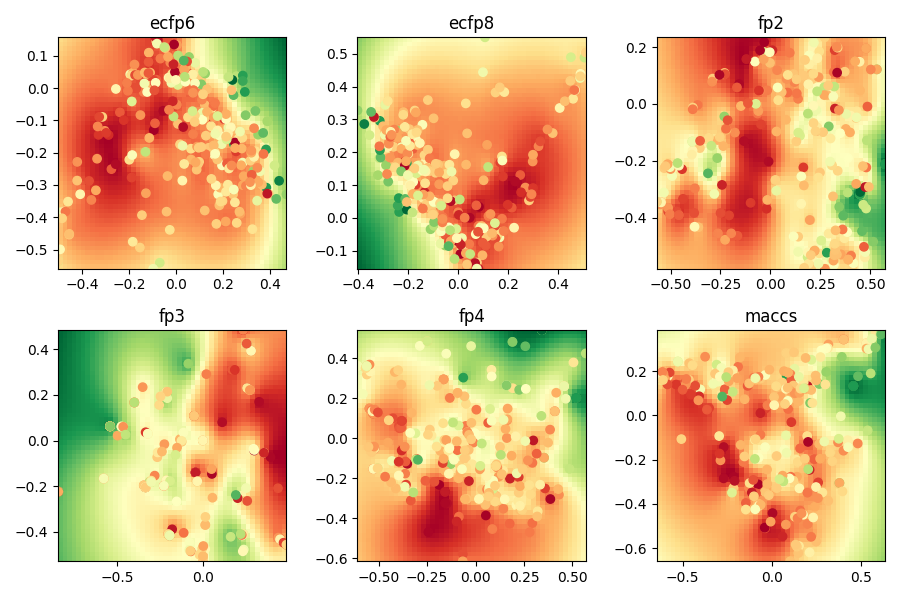
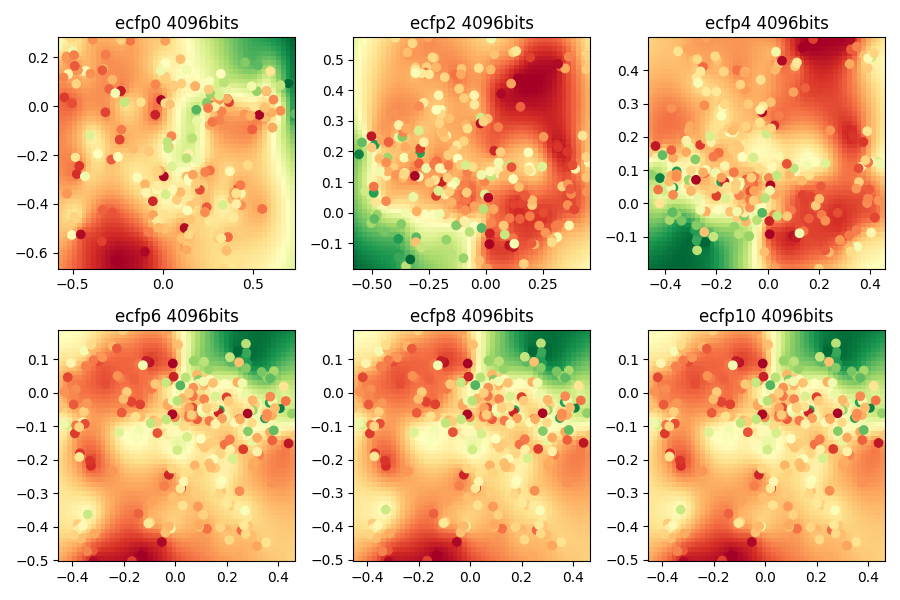
remove openbabel dependencies, using only rdkit.

diff --git a/fp.py b/fp.py
@@ -8,7 +8,9 @@ import pandas as pd
 import matplotlib.pyplot as plt
 import scipy.interpolate
 from sklearn import preprocessing
-from openbabel import pybel
+from rdkit import Chem
+from rdkit.Chem import AllChem
+import argparse
 
 def pca(X, npc=2):
     # calculate eigenvalues(l) and eigenvectors(w) of the covariance matrix
@@ -21,18 +23,23 @@ def pca(X, npc=2):
     pc = np.dot(X, w[:,:npc])
     return pc
 
-def fp_mds(filename, fptype):
+def fp_mds(args, radius):
     fps = []
+    bit_info = {}
     solubility = []
-    for mol in pybel.readfile(filename=filename, format='sdf'):
-        fp = mol.calcfp(fptype=fptype).bits
+    for mol in Chem.SDMolSupplier(args.filename):
+        fp_bit = list(AllChem.GetMorganFingerprintAsBitVect(mol, radius, bitInfo=bit_info, nBits=args.nbits))
+
+        # you can use fp_bit for fixed length fingerprints,
+        # while this code generates matrix from variable length fingerprints for generality.
+        fp = list(bit_info.keys())
         fps.append(fp)
-        solubility.append(np.float32(mol.data['SOL']))
+        solubility.append(np.float32(mol.GetProp('SOL')))
 
     ncol = max(max(fp) if len(fp) > 0 else 0 for fp in fps)
     mat = np.zeros((len(fps), ncol+1), dtype=np.float32)
-    for i,fp in enumerate(fps):
-        mat[i,fp] = 1.
+    for i, fp in enumerate(fps):
+        mat[i, fp] = 1.
 
     mat = preprocessing.normalize(mat)
     pcs = np.real(pca(mat, npc=2))
@@ -45,17 +52,23 @@ def fp_mds(filename, fptype):
     rbf = scipy.interpolate.Rbf(pcs[:,0], pcs[:,1], solubility, function='linear', smooth=0.1)
     zi = rbf(xi, yi)
 
-    plt.subplot(2, 3, pybel.fps[-6:].index(fptype)+1)
-    plt.title('%s' % fptype)
+    plt.title('ecfp%d %dbits' % (radius, args.nbits))
     plt.imshow(zi, vmin=zi.min(), vmax=zi.max(), origin='lower', cmap='RdYlGn_r', aspect='auto',
             extent=[pcs[:,0].min(), pcs[:,0].max(), pcs[:,1].min(), pcs[:,1].max()])
     plt.scatter(pcs[:,0], pcs[:,1], c=solubility, cmap='RdYlGn_r')
 
 def main():
-    filename = 'data/solubility.test.sdf'
+    parser = argparse.ArgumentParser() 
+    parser.add_argument('--filename', default='data/solubility.test.sdf')
+    parser.add_argument('--nbits', default=4096, type=int)
+    args = parser.parse_args()
+
+    print(vars(args))
+
     plt.figure(figsize=(9,6))
-    for fptype in pybel.fps[-6:]:
-        fp_mds(filename, fptype)
+    for index, radius in enumerate([0, 2, 4, 6, 8, 10], 1):
+        plt.subplot(2, 3, index)
+        fp_mds(args, radius)
     plt.tight_layout()
     plt.savefig('doc/fp.png')
 
